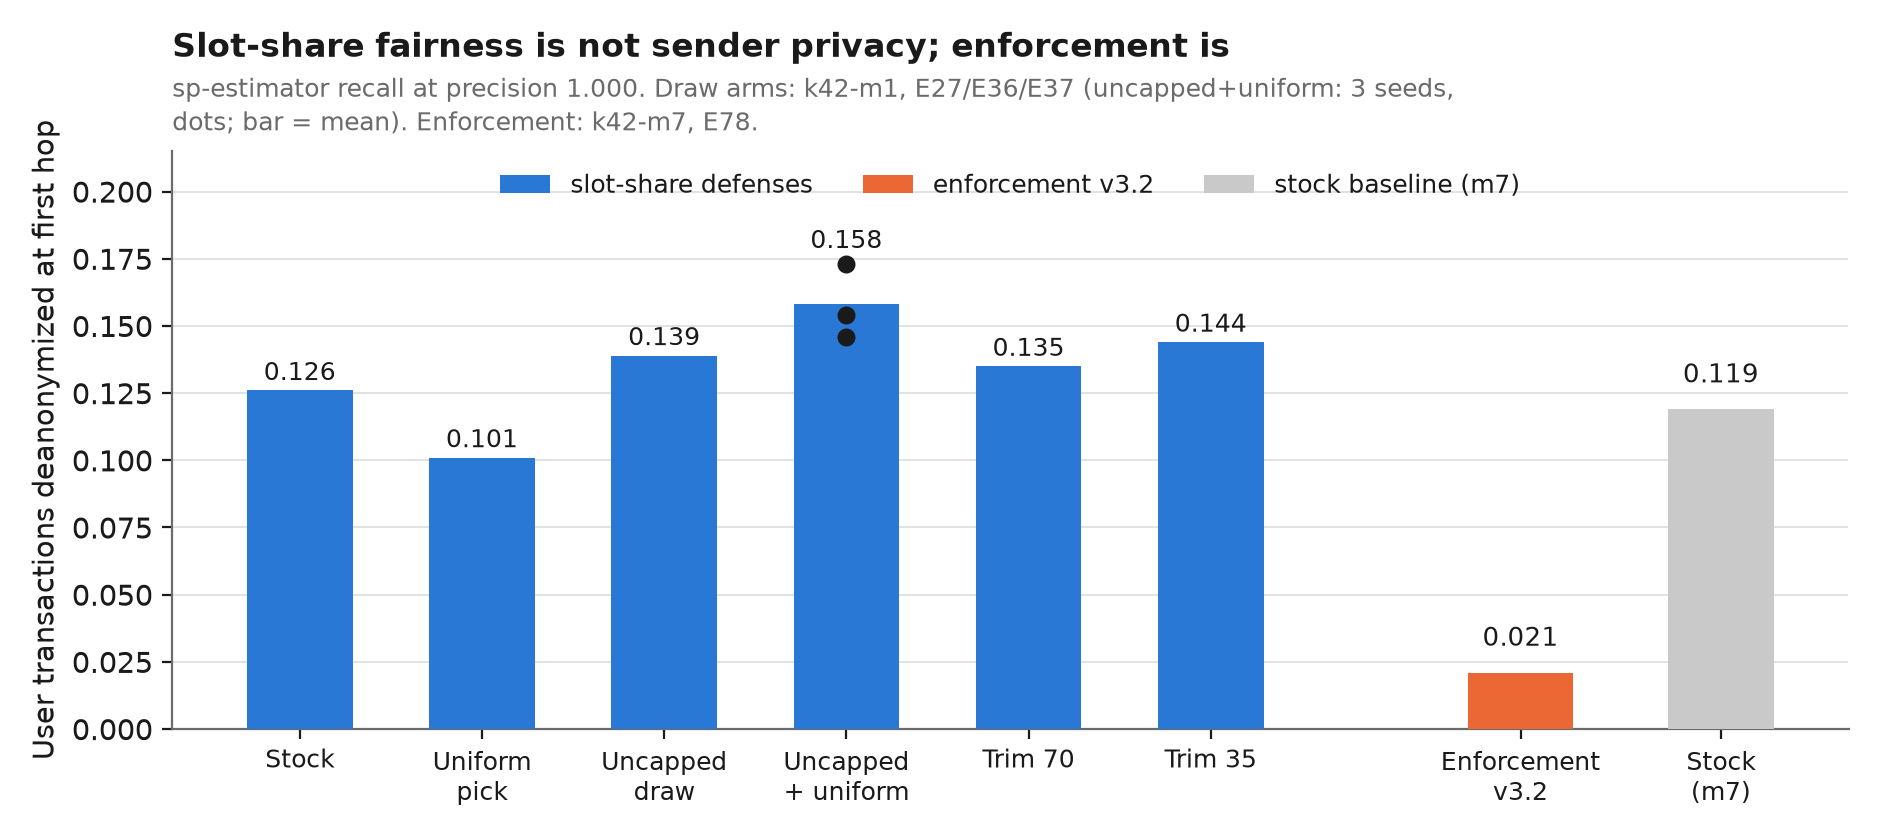
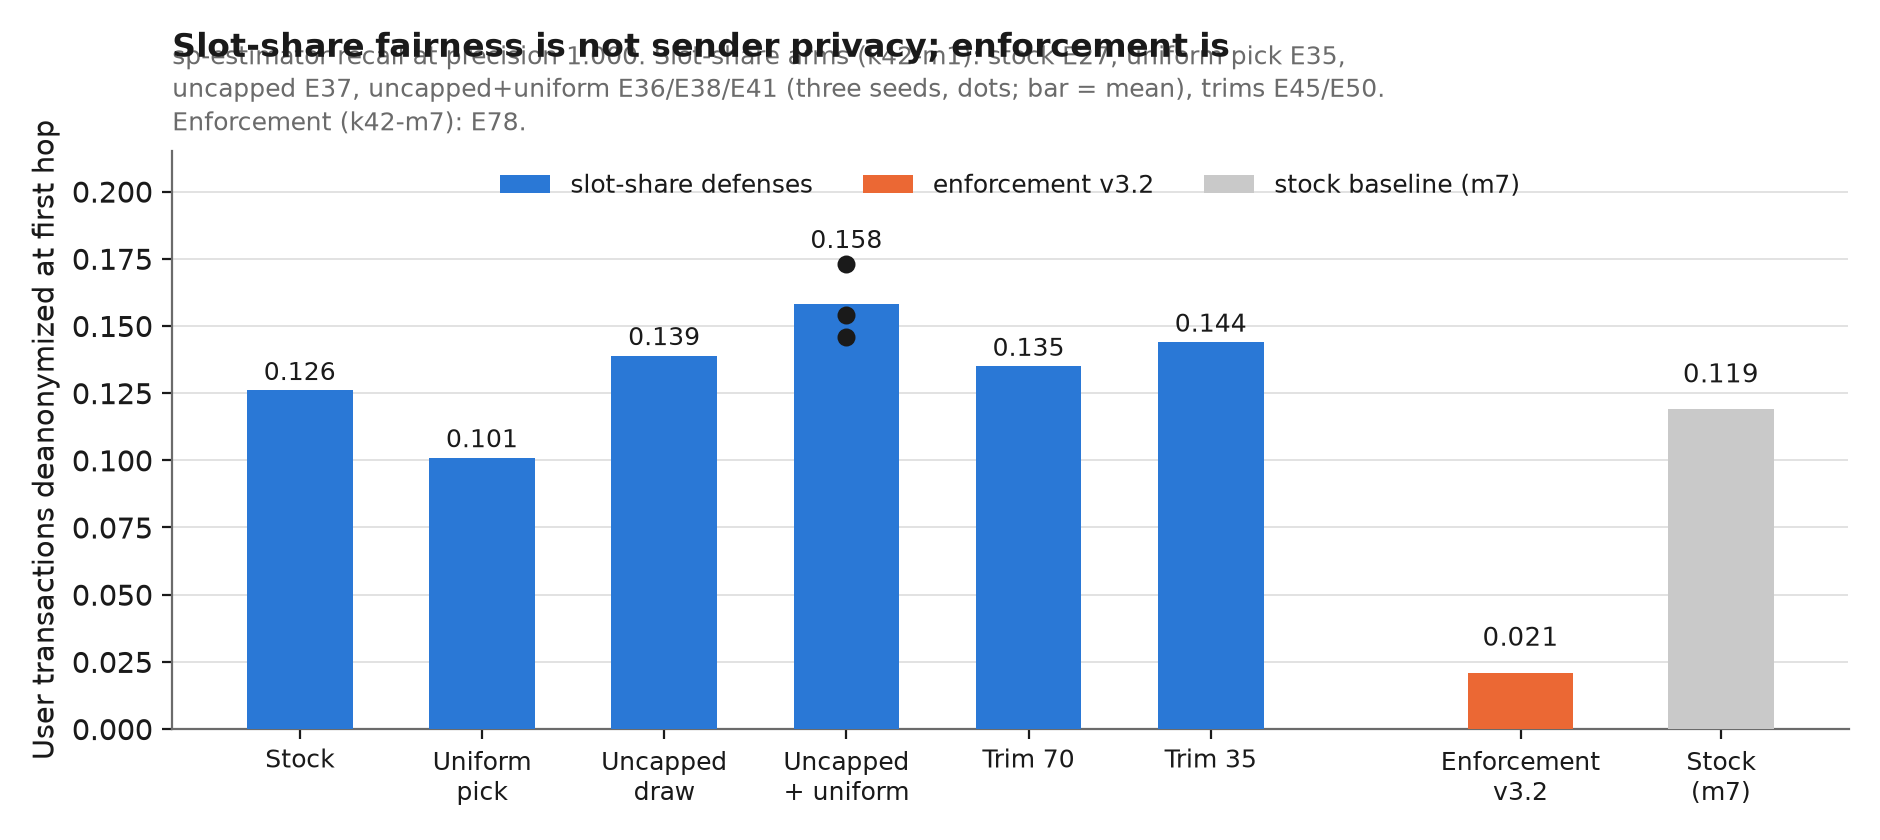
antiproxy: the study drafted as a human-readable manuscript - 20261111_manuscript.md (one id, many addresses): narrative arc from the crawl fingerprint through the fairness trap (slot-share defenses leave recall 0.10-0.17, the best fairness arm the worst for privacy) to observational id-consistency 

Changed region(s): [[0.0926, 0.0619, 0.7713, 0.1548]]

diff --git a/studies/antiproxy/docs/figures/make_figures.py b/studies/antiproxy/docs/figures/make_figures.py
@@ -83,7 +83,8 @@ ax.grid(axis="x", visible=False)
 ax.legend(frameon=False, fontsize=9, loc="upper center", ncol=3)
 style(ax, "User transactions deanonymized at first hop",
       "Slot-share fairness is not sender privacy; enforcement is",
-      "sp-estimator recall at precision 1.000. Draw arms: k42-m1, E27/E36/E37 (uncapped+uniform: 3 seeds, dots; bar = mean). Enforcement: k42-m7, E78.")
+      "sp-estimator recall at precision 1.000. Slot-share arms (k42-m1): stock E27, uniform pick E35, uncapped E37, "
+      "uncapped+uniform E36/E38/E41 (three seeds, dots; bar = mean), trims E45/E50. Enforcement (k42-m7): E78.")
 fig.tight_layout(); fig.savefig(OUT / "f3_deanonymization_ladder.png"); plt.close(fig)
 
 # F4 — the version ladder: same smoke cell, only the defense varies.

diff --git a/studies/antiproxy/docs/20261111_manuscript.md b/studies/antiproxy/docs/20261111_manuscript.md
@@ -1,0 +1,216 @@
+# One id, many addresses: how proxy fleets ride Monero's peer lists, and the local rule that stops them
+
+A narrative manuscript for the antiproxy study, 2026-11-11. Everything here is
+measured: each number cites an entry (En) or filing (Pn) in
+`SPY_EXPERIMENT_JOURNAL.md`, where every prediction was filed before its
+experiment ran and scored blind against the outcome afterwards — 124 registered
+runs so far. The technical summary with full citations is
+`20261111_findings_summary.md`; this document is the story for a reader who
+wants to understand it without reading the journal.
+
+## The short version
+
+Someone wanting to learn who sends Monero transactions does not need to break
+cryptography. It is enough to run many cheap proxies — one real `monerod`
+backend behind many forwarded addresses — and let the network's own peer
+selection carry honest nodes' traffic to them. A September 2026 crawl of the
+live network found 12,368 of 18,026 reachable endpoints carrying the
+fingerprint of exactly that design: many addresses, one backing peer identity
+(E3). In our simulations such a fleet, entirely passive, occupies 2.2 times its
+fair share of honest nodes' outbound connections and receives 11–12% of user
+transactions *as the first hop* — the hop whose sender is, by construction, the
+transaction's origin. The attribution is perfect-precision: every transaction
+the fleet attributes, it attributes correctly.
+
+Two defenses follow from the measurements, and they are not the two one would
+guess. Fixing the rule that lets the fleet multiply its share — the obvious,
+one-line fix, ready for upstream — makes the fleet's share *fair* but leaves
+its tracing power untouched, or slightly worse. The defense that actually cuts
+tracing is a local, observational rule: a node that has *directly seen* one
+peer id presenting two different addresses simply refuses the second address a
+place in its white list, for as long as the contradiction stands. That rule
+collapses a shared-id fleet's position 9.7-fold, cuts origin attribution from
+11.9% to 2.1% of user transactions, provably costs honest peers nothing — and
+needs no protocol change, no new message, no coordination.
+
+![first-hop deanonymization by defense](figures/f3_deanonymization_ladder.png)
+
+## Background: the two lists and the first hop
+
+A Monero daemon keeps two lists of peers. The **white list** holds up to 1000
+reachable peers it has actually talked to; the **gray list** holds peers it has
+merely heard about. When the daemon needs a new outbound connection, it picks
+*candidates* from the white list — and stock `monerod` picks them from the 20
+**newest** entries by last contact, preferring whichever /24 subnet the least
+recently-used entry came from. Freshness, in other words, is the currency of
+connection slots.
+
+Transaction propagation uses Dandelion++: a wallet's transaction first goes to
+one node (the **first hop**), which holds it and forwards it through a random
+*stem* of one or more intermediaries before it fluffs out to the network. The
+privacy of the whole construction rests on the first hop being honest: the
+first node in the stem necessarily learns the sender's IP address. A fleet
+that occupies first-hop slots doesn't need to break anything — the origins
+arrive on their own.
+
+This is why "share of outbound slots" and "fraction of transactions
+deanonymized" are the two numbers this study tracks. The first is the fleet's
+*position*; the second is what the position *buys*.
+
+## The threat, measured
+
+The lab is a discrete-event network simulator (Shadow) running real, unmodified
+`monerod` v0.18.5.1 binaries — patched only with flag-gated instrumentation
+that is off by default and provably inert (E78's null arm: three successive
+binaries, flag off, read the same slot share within noise). A typical
+experiment is a 300-reachable-node network with a fleet modeled on the crawl:
+294 spy endpoints spread over 42 /24 subnets, each subnet's addresses behind
+the same shared backing id where the arm calls for it. Sender traffic mimics
+mainnet rates. Fleet-side estimation uses only what a real spy could log: which
+addresses received stem transactions, and when.
+
+Three facts define the threat (Part I of the study):
+
+**The 20-newest cut is the multiplier.** A passive fleet that does nothing but
+accept connections and gossip ends up occupying 0.337 of honest outbound slots
+— 2.2x its share of the address pool (E27). The mechanism is the candidate
+rule above: a fleet with many addresses in dense /24s refreshes its own
+entries constantly, so the "newest 20" is systematically fleet-heavy. Lift the
+cap so candidates come from the whole deduplicated white list and the
+multiplier collapses to 1.03x (E36/E37) — the fleet gets exactly its fair
+share of slots and not one more.
+
+![fleet slot share vs pool share, white-cap sweep](figures/f1_cap_sweep.png)
+
+**The fleet's shape cannot buy more position.** More addresses per /24, /16
+spreading, bigger budgets: none of it moves the passive needle, because the
+per-/24 dedup means a fleet gets one white slot per prefix per node — stock
+white lists are already one-entry-per-host (E72–E75). The port-multiplication
+the real crawl shows buys gray-side gossip spread, not white-list standing.
+
+**What the position buys is origin identity.** At that steady state the fleet
+receives ~1,000 stem transactions per run and attributes 11.9% of user
+transactions to their true origin at precision 1.000 (I1 baseline of the
+enforcement trio). An *active* adversary — one that refreshes its own entries
+to stay permanently newest — eclipses an untrimmed list entirely: 0.908 slot
+share and 96.7% attribution (E58–E62). Mainnet context makes this concrete:
+the owner's node dumps show white lists pinned at the 1000 cap with every
+entry under 12.3 hours old — the flat, saturated regime right where these
+mechanisms operate (Finding 2).
+
+## The fairness trap
+
+So the obvious defense is the one-line draw fix. It is cheap, it is fair, and
+it works exactly as designed: share drops to 1.03x. One would expect tracing
+to fall with it.
+
+It doesn't. Across three seeds, networks running the draw fix — candidates
+uncapped, selection uniform — show *higher* first-hop attribution than stock:
+recall 0.146–0.173 against stock's 0.126, all at precision 1.000 (E36/E38/E41;
+the uniform-pick-only arm E35 reads 0.101). Trimming the white list to
+mainnet-like sizes (70 or 35 entries) lands back in the same 0.13–0.14 band
+(E45, E50). The blue bars in the ladder figure are all the same height, and
+the best "fairness" arm is the tallest of them.
+
+The mechanism is simple once stated: slot-share defenses spread the fleet's
+occupancy across more honest nodes, but every slot they keep is still a first
+hop, and a first hop is a first hop. Spreading the fleet's share *fairly*
+spreads the *origins* fairly — across more spies. **Fairness is a property of
+the honest nodes' connection budgets; privacy is a property of who holds the
+first-hop slots. The draw fix buys the first and not the second.**
+
+This is the study's most cautionary result, and the reason the orange bar
+matters.
+
+## The defense that works: observe ids, gate addresses
+
+The crawl's fingerprint — many addresses, one backing peer id — is also the
+fleet's structural weakness. A proxy front cannot help presenting the same
+peer id from many addresses: the id is minted by the one backing daemon, and
+the PING-support handshake requires it. An honest node's own connections,
+nothing else, are enough to see the contradiction.
+
+The rule (patch R9 v3.2, `--sim-enforce-id-consistency`, off by default): a
+node records, per its directly observed connections in *both* directions,
+which peer id it saw at which advertised address. If one id is observed at two
+or more addresses within a grace window (24h in the lab), every address but
+the most recently observed one loses **standing**: existing white entries are
+evicted, and every path that could re-insert them refuses while the
+contradiction is live. The fleet is demoted to one standing address per
+observing node. No wire format changes, no new messages, no coordination —
+it is a local policy on local evidence.
+
+**Measured** (k42-m7, 294 shared-id endpoints, 19-hour steady state, E78):
+
+- Slot share: 0.3467 → **0.0359** — a 9.7x collapse, at or below the
+  theoretical one-slot-per-prefix floor.
+- Origin attribution: 11.9% → **2.1%** of user transactions, still at
+  precision 1.000; Dandelion++ stem exposure falls from 1,004 receipts to 187.
+- Cost: **zero honest refusals** — all 308 refusals land on spy addresses —
+  and honest stem throughput unchanged (1,048 vs 1,004 baseline transactions).
+- The bound: a fleet that mints a fresh id per endpoint pays *exactly nothing*
+  (0.3494 vs 0.3467 baseline, refusals exactly 0, E78's bound arm). The rule
+  prices the cheap design, and the priced alternative — per-identity keys or
+  signed id bindings — is a different, harder game.
+- The null: with the flag off, three successive binaries read the same slot
+  share within noise. The instrumentation is inert when off, structurally.
+
+![fleet slot share by enforcement arm](figures/f2_enforcement_arc.png)
+
+![attribution and stem exposure under enforcement](figures/f5_fleet_losses.png)
+
+## Four versions, one lesson
+
+The rule looks obvious in retrospect. It took four versions to get right, and
+each failure was caught by a pre-registered check, not by luck:
+
+- **v1** recorded ids only on *inbound* handshakes — and the fleet, dialed
+  outbound by honest nodes, never triggered it. 1,022 of 1,022 receipts were
+  relay-dialed; the maps stayed empty (E76). *Observation must cover both
+  connection directions.*
+- **v2** added client-side observation but only *evicted* — evicted entries
+  were immediately re-inserted by the next handshake, a freshness treadmill
+  that briefly let the fleet *quadruple* its share (smoke cell: 0.6422 against
+  0.1614 inert). *Demotion without a standing gate is worse than nothing.*
+- **v3** gated re-insertion but keyed observations by the connection's
+  ephemeral source port — so honest peers behind NAT rebinding read as
+  id-contradictions, manufacturing 40,795 honest refusals (E77's no-collateral
+  check caught it). *Key by the advertised address, the identity the network
+  actually uses.*
+- **v3.2** keys by advertised address and lands at the floor.
+
+![the version ladder, one smoke cell](figures/f4_version_ladder.png)
+
+Generalized: **a demotion rule must pair eviction with a standing gate, and an
+observation rule must see what it claims to observe, in both directions.**
+Both lessons generalize well past Monero.
+
+## What transfers, and what doesn't
+
+- The mechanisms — the 20-newest candidate cut, per-/24 dedup, one-slot-per-
+  prefix, the shared-id fingerprint — are properties of the monerod code and
+  the protocol, not of our lab, and the mainnet dumps sit in the regime the
+  lab measures. The transfer caveat that remains is scale (300-reachable
+  networks; single seed per arm for the newest results, with second seeds
+  queued).
+- The enforcement rule needs adoption by monerod to matter on mainnet; its
+  grace window trades honest dynamic-IP moves against demotion speed, and
+  that trade is a policy decision, not a measurement.
+- Sophisticated fleets — per-endpoint ids, or per-identity proof work — are
+  out of this rule's scope by design. It prices the design the crawl actually
+  observed, which is the design that exists.
+- The open arm is composition: the draw fix (fairness) on top of enforcement
+  (privacy) is running now (P77). The two address different properties of the
+  same slots, and the honest prediction is that we do not know which way the
+  interaction lands; the filing bands cover both.
+
+## How to read the evidence
+
+Everything is reproducible from this repository: the journal
+(`SPY_EXPERIMENT_JOURNAL.md`) with its 124 registered runs and pre-registered
+predictions; the flag-gated patches (`studies/antiproxy/patches/`, applied via
+`patches/series`); the generators and analysis tools; and per-run artifacts
+(`docs/spy_journal/runs/`). Figures regenerate from journal-cited values with
+`figures/make_figures.py`. The one thing not in the repository is raw mainnet
+data — crawl outputs and node dumps stay local by policy; only derived,
+aggregate numbers appear here.
